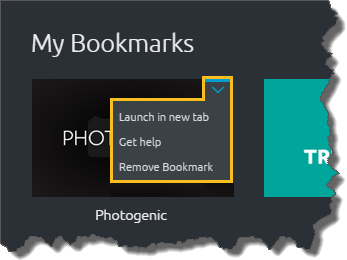
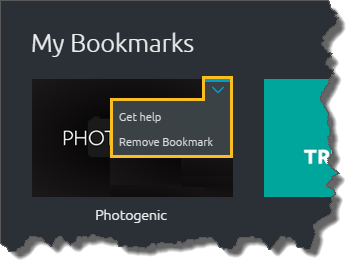
webtop clarifications

Changed region(s): [[0.317, 0.5231, 0.6916, 0.7077], [0.3458, 0.4308, 0.6052, 0.4923]]

diff --git a/src/scripts/components/articles/HUD_useHUD.html b/src/scripts/components/articles/HUD_useHUD.html
@@ -20,14 +20,13 @@
 <p><img alt="HUD access from toolbar" src="Doc_images/HUD-access-from-toolbar.png"  title="HUD access from toolbar" /><br />
 <b>Accessing HUD from the Global Toolbar</b></p>
 
-<p>From HUD you can <b>open, get help or remove bookmarks</b> for a listing. Each action is found under the drop-down menu located on the upper-right side of a listing:<br />
+<p>From HUD you can <b>open, get help or remove bookmarks</b> for a listing. To open a listing, click it. Use the drop-down listing menu to access listing help or remove the listing from your HUD:<br />
 <img alt="Drop-down listing actions menu" src="Doc_images/drop-down-listing-actions.png"  title="Drop-down listing actions menu" /><br />
 <b>Drop-down listing actions menu</b></p>
 
 <p>Listing commands are accessible from the drop-down menu on the upper-right side of the listing:</p>
 
 <ul>
-	<li><b>Launch in new tab </b> - Opens the listing in a new browser tab.</li>
 	<li><b>Get help</b> - Opens the listing's Help resources.</li>
 	<li><b>Remove Bookmark</b> - Deletes the listing from your HUD. To add it again: go to Center, search for the listing and bookmark it.</li>
 </ul>

diff --git a/src/scripts/components/articles/HUD_overview.html b/src/scripts/components/articles/HUD_overview.html
@@ -12,14 +12,13 @@
 
 <br />
 <h3>Bookmarks in HUD</h3>
-<p>From HUD you can <b>open, get help or remove bookmarks</b> for a listing. Each action is found under the drop-down menu each listing has in its upper-right corner:</p>
+<p>From HUD you can <b>open, get help or remove bookmarks</b> for a listing. To open a listing, click it. Use the drop-down listing menu to access listing help or remove the listing from your HUD:</p>
 <p><img alt="Drop-down listing actions menu" src="Doc_images/drop-down-listing-actions.png"  title="Drop-down listing actions menu" /></p>
 
 <br />
 <p><b>Drop-down listing actions menu</b><br />Listing commands are accessible from the drop-down menu on the upper-right side of the listing:</p>
 
 <ul>
-	<li><b>Launch in new tab </b> - Opens the listing in a new browser tab.</li>
 	<li><b>Get help</b> - Opens the listing's Help resources.</li>
 	<li><b>Remove Bookmark</b> - Deletes the listing from your HUD. To add it again: go to Center, search for the listing and bookmark it.</li>
 </ul>

diff --git a/src/scripts/components/articles/Center_listings_create.html b/src/scripts/components/articles/Center_listings_create.html
@@ -119,6 +119,12 @@
 </p>
 
 <p>
+<b>Webtop-enabled</b>
+<br />Listings that function in a Webtop 
+<br /><i>If the listing is <b>not</b> Webtop-enabled, it will only open in a browser tab.</i>
+</p>
+
+<p>
 <b>Singleton</b>
 <br />Singletons are listings that you can launch only one instance of on the Webtop.
 <br /><i>Most applications can be added and opened to the Webtop multiple times. Singletons cannot. If you only want one instance of the listing open on the Webtop, make it a Singleton.</i>

diff --git a/src/scripts/components/articles/Webtop_addListing.html b/src/scripts/components/articles/Webtop_addListing.html
@@ -7,7 +7,7 @@
 </iframe>
 <br /><br />
 
-<p>Any listing you bookmarked in HUD will be accessible to use in Webtop. <br />
+<p>Any listing you bookmarked in HUD <b>that is compatible with Webtop</b> will be accessible to use from the lower toolbar in Webtop. <br />
 To add a listing to your Webtop:</p>
 
 <ol>
